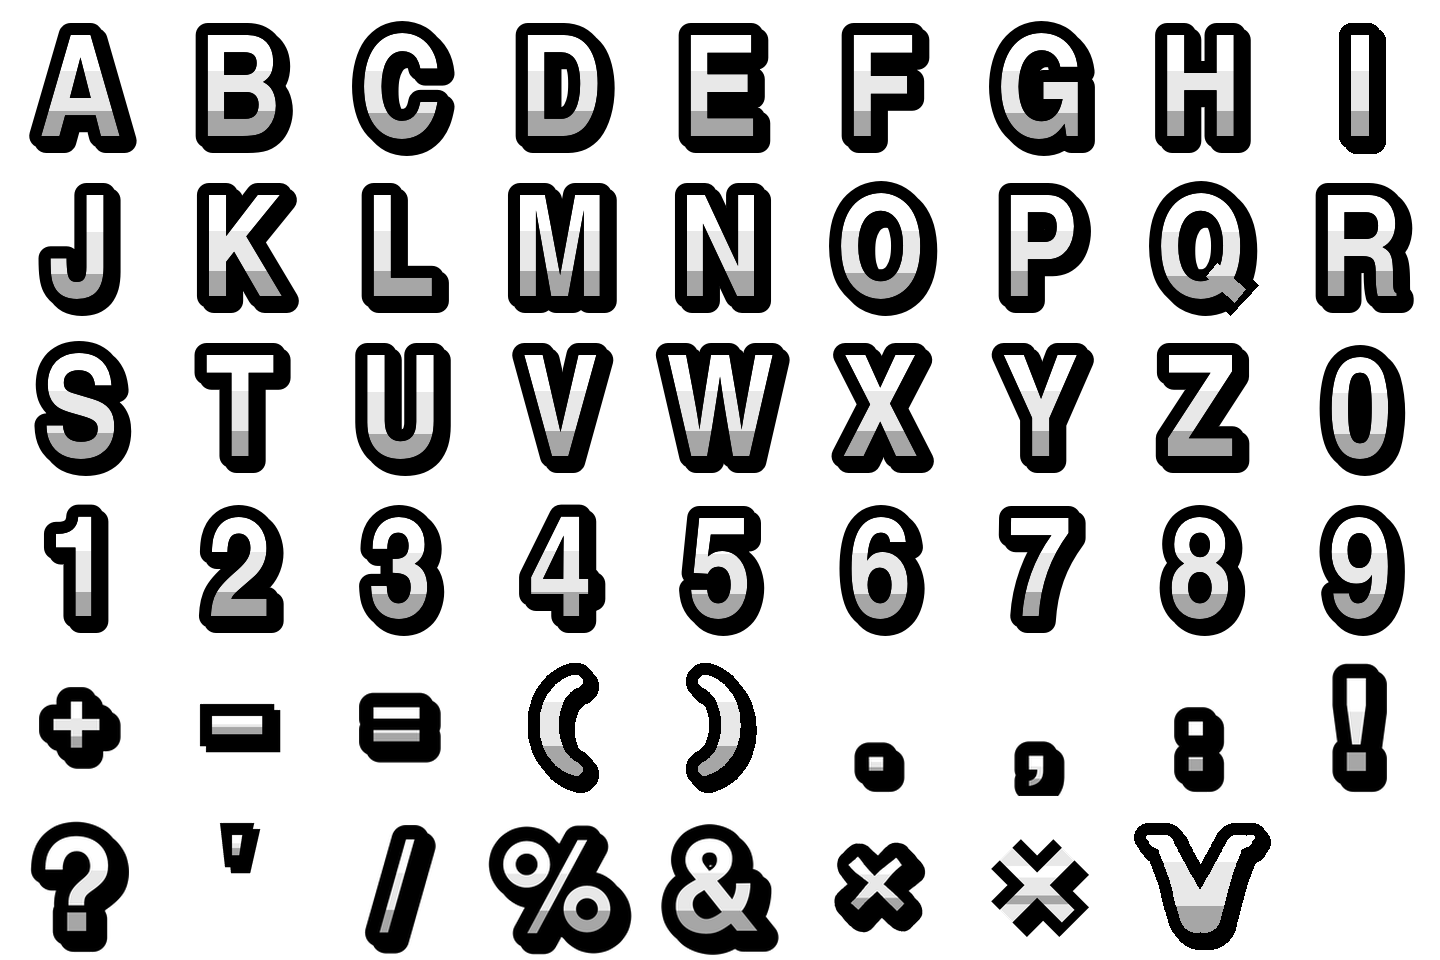
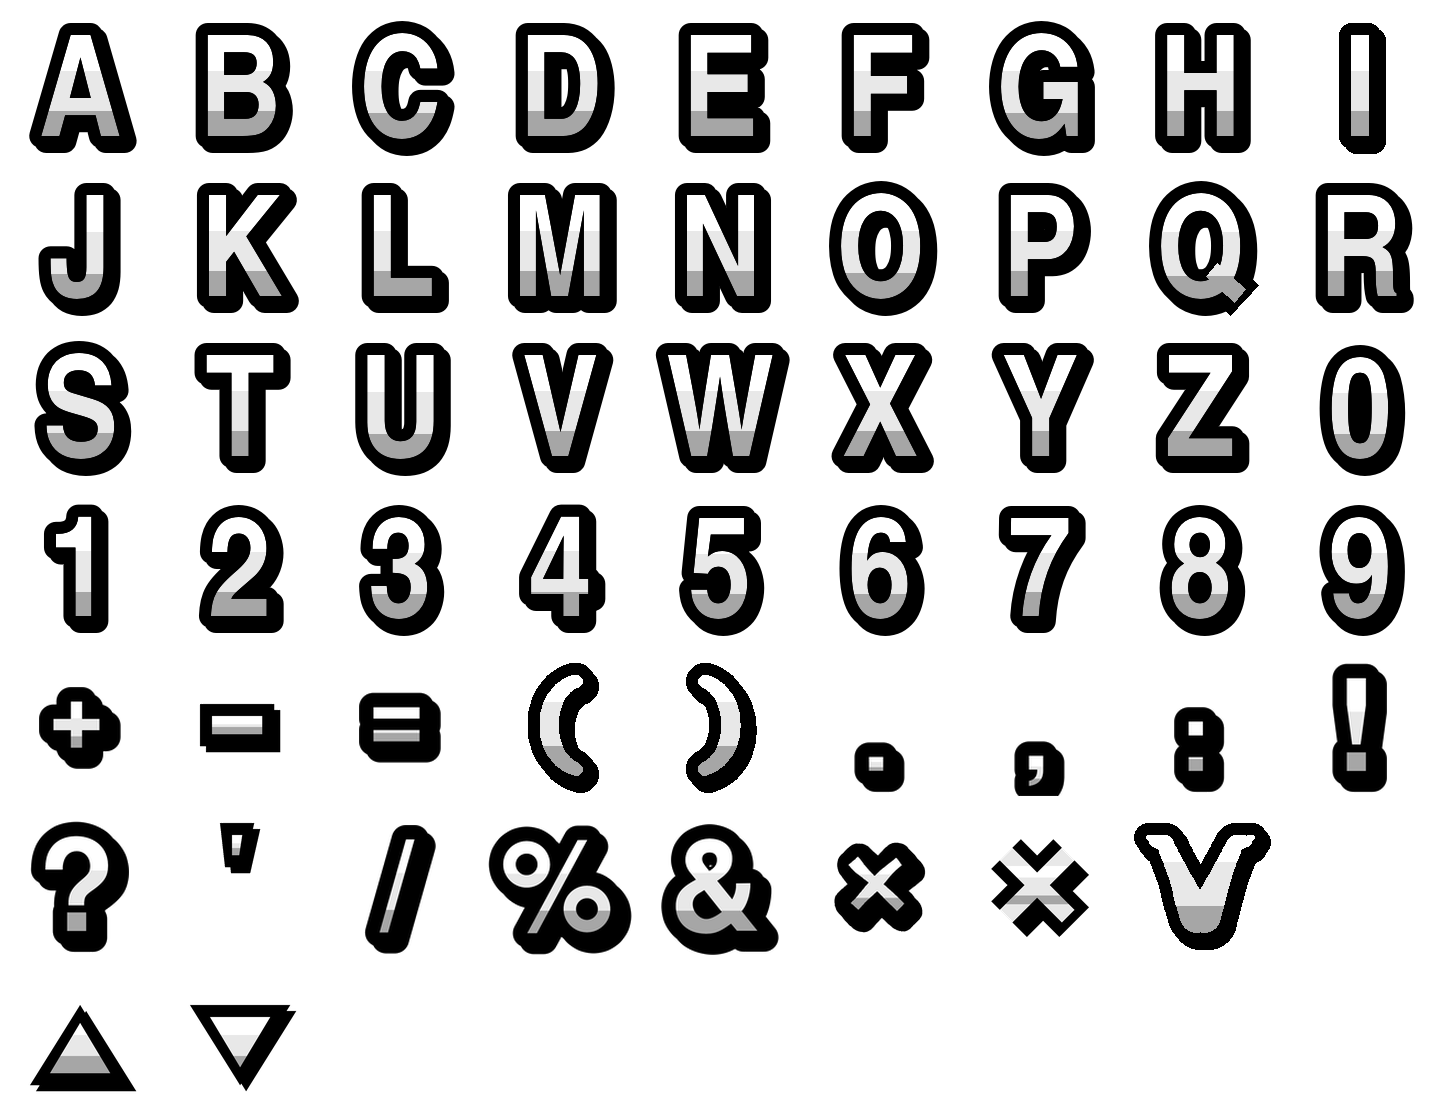
Put every button on a face and a height tier, with arrow glyphs for the seed wheel
models.Button.Bevelled is gone, and with it the last buttons that drew a
code-drawn bevel instead of an authored face. The hand's sort tabs were
already on the Small tier and simply take the gray face. The shop's sell
tab, the pouch's USE/SELL tabs, the deck panel's filter column and the
animation gallery rows move to ButtonTiny (32) and take theirs. A color
with no face file is now the only thing that falls back to the bevel.

An icon on a button is a figure glyph, set as the button's label like a
word, so it takes the sheet's contour, ink and pressed state. The seed
wheel's arrows are ▲ and ▼, generated from docs/art/figure_arrows_art_prompt.MD
and merged into the v3 figure sheets as a seventh row; the code-drawn
chevron that stood in for them is deleted. The seed dialog's test now
holds the arrows against the sheet, so a missing glyph fails rather than
leaving a blank button.

diff --git a/internal/ui/seeddialog.go b/internal/ui/seeddialog.go
@@ -121,12 +121,10 @@ func (d *SeedDialog) Warns() bool { return d.warn }
 func (d *SeedDialog) build() {
 	for i := 0; i < seeds.CodeLen; i++ {
 		i := i
-		d.up[i] = models.NewButton(seedCellWidth, seedArrowHeight, "", func() { d.Turn(i, 1) })
+		d.up[i] = models.NewButton(seedCellWidth, seedArrowHeight, seedArrowUp, func() { d.Turn(i, 1) })
 		d.up[i].BaseColor = confirmCancelColor
-		d.up[i].Bevelled = true
-		d.down[i] = models.NewButton(seedCellWidth, seedArrowHeight, "", func() { d.Turn(i, -1) })
+		d.down[i] = models.NewButton(seedCellWidth, seedArrowHeight, seedArrowDown, func() { d.Turn(i, -1) })
 		d.down[i].BaseColor = confirmCancelColor
-		d.down[i].Bevelled = true
 	}
 	d.cancel = models.NewButton(seedButtonWidth, seedButtonHeight, "CANCEL", func() { d.Close() })
 	d.cancel.BaseColor = confirmCancelColor
@@ -229,8 +227,6 @@ func (d *SeedDialog) Draw(gs *state.GlobalState, screen *ebiten.Image) {
 
 		systems.DrawButton(gs, screen, d.up[i])
 		systems.DrawButton(gs, screen, d.down[i])
-		drawChevron(screen, d.up[i], true)
-		drawChevron(screen, d.down[i], false)
 	}
 
 	systems.DrawButton(gs, screen, d.cancel)
@@ -284,26 +280,12 @@ func lettering(gs *state.GlobalState, screen *ebiten.Image, str string, cx, cy, 
 	text.Draw(screen, str, &text.GoTextFace{Source: gs.Fonts["kubasta"], Size: height * 1.4}, op)
 }
 
-// drawChevron puts a solid triangle on an arrow button, pointing up or down. **A stand-in until
-// there is arrow art**, drawn in the button labels' near-white so it reads as the button's label.
-func drawChevron(screen *ebiten.Image, b *models.Button, up bool) {
-	const half, rise = 14, 10
-	cx, cy := float32(b.ScreenX), float32(b.ScreenY)
-	tip, base := cy-rise, cy+rise
-	if !up {
-		tip, base = base, tip
-	}
-	var p vector.Path
-	p.MoveTo(cx, tip)
-	p.LineTo(cx+half, base)
-	p.LineTo(cx-half, base)
-	p.Close()
-	ink := color.RGBA{R: 235, G: 235, B: 240, A: 255}
-	if b.State == models.ButtonStateDisabled {
-		ink = color.RGBA{R: 110, G: 110, B: 110, A: 255}
-	}
-	vector.FillPath(screen, &p, &vector.FillOptions{}, &vector.DrawPathOptions{AntiAlias: true, ColorScale: colorScale(ink)})
-}
+// The arrows a wheel is turned by, as figure glyphs: a label like any other button's, so they take
+// the figure sheet's contour and ink and sink with the face when pressed.
+const (
+	seedArrowUp   = "▲"
+	seedArrowDown = "▼"
+)
 
 func colorScale(c color.RGBA) ebiten.ColorScale {
 	var s ebiten.ColorScale

diff --git a/internal/screens/shop_pouch.go b/internal/screens/shop_pouch.go
@@ -54,7 +54,7 @@ const (
 	// The two tabs that hang under an armed stone, side by side. **Narrower than the worn row's
 	// single sell tab, because there are two of them** — together they come to about its width.
 	pouchTabWidth  = 170
-	pouchTabHeight = 30
+	pouchTabHeight = ui.ButtonTiny
 	pouchTabGap    = 8
 
 	// How far under the card the tabs hang. The shelf's own figure gap.
@@ -131,13 +131,11 @@ func (t *pouchToggle) init() {
 	// red every control on this screen that cannot be taken back wears.
 	t.use.BaseColor = color.RGBA{R: 46, G: 150, B: 70, A: 255}
 	t.use.TextSize = sellTabTextSize
-	t.use.Bevelled = true
 
 	t.sell = models.NewButton(pouchTabWidth, pouchTabHeight, "SELL",
 		func() { t.doing = pouchSell })
 	t.sell.BaseColor = ui.ButtonRed
 	t.sell.TextSize = sellTabTextSize
-	t.sell.Bevelled = true
 }
 
 // cardRects is where the carried stones stand inside the panel. It reuses the rune dialog's

diff --git a/internal/ui/deckpanel_view.go b/internal/ui/deckpanel_view.go
@@ -53,7 +53,7 @@ const (
 	// deckRowLabelWidth, which was the same idea for the labels this column took over.
 	deckColumnGutter = 26
 
-	deckColumnButtonHeight = 34
+	deckColumnButtonHeight = ButtonTiny
 	deckColumnButtonPitch  = 38
 
 	// deckColumnBlockGap is the air between two blocks of buttons, and deckColumnHeadDrop is how
@@ -200,7 +200,6 @@ func (v *DeckView) build() {
 func (v *DeckView) columnButton(onClick func()) *models.Button {
 	b := models.NewButton(deckColumnWidth, deckColumnButtonHeight, "", onClick)
 	b.BaseColor = SortButtonColor
-	b.Bevelled = true
 	b.TextSize = deckColumnTextSize
 	return b
 }

diff --git a/internal/systems/button_face.go b/internal/systems/button_face.go
@@ -58,12 +58,9 @@ const (
 	faceLatchedScale = 0.7
 )
 
-// buttonFace is the picture a button wears, or nil for a button drawn with the bevel: one that
-// asked for it, a color with no face, or a face that failed to load.
+// buttonFace is the picture a button wears, or nil for a button drawn with the bevel: a color
+// with no face, or a face that failed to load.
 func buttonFace(gs *state.GlobalState, button *models.Button) *ebiten.Image {
-	if button.Bevelled {
-		return nil
-	}
 	if button.State == models.ButtonStateDisabled {
 		return gs.Assets[disabledButtonFace]
 	}

diff --git a/internal/models/button_mod.go b/internal/models/button_mod.go
@@ -59,12 +59,6 @@ type Button struct {
 	// first and as active second.
 	Latched bool
 
-	// Bevelled keeps the drawn bevel rather than the authored face its color would wear. It is for
-	// the controls the face art does not cover yet — the seed wheel's arrows, the hand's sort
-	// buttons, the deck panel's filter column — and a button that sets it is outside the height
-	// tiers as well.
-	Bevelled bool
-
 	// What Image currently holds, so DrawButton can repaint it only when something
 	// visible has changed rather than every frame.
 	//

diff --git a/internal/screens/shop.go b/internal/screens/shop.go
@@ -74,7 +74,7 @@ const (
 	// **Narrower than the card it hangs off**, so it reads as attached to that relic rather than as
 	// a row of its own.
 	sellTabWidth    = 200
-	sellTabHeight   = 30
+	sellTabHeight   = ui.ButtonTiny
 	sellTabTextSize = 26
 )
 
@@ -251,7 +251,6 @@ func (s *ShopScene) Init(gs *state.GlobalState) {
 		// takes. A sale is the only thing on this screen that cannot be taken back.
 		s.sellButton.BaseColor = ui.ButtonRed
 		s.sellButton.TextSize = sellTabTextSize
-		s.sellButton.Bevelled = true
 	}
 
 	s.initRerollButtons()

diff --git a/internal/screens/animations.go b/internal/screens/animations.go
@@ -318,9 +318,8 @@ func (s *AnimationsScene) Init(gs *state.GlobalState) {
 		s.back = models.NewButton(220, ui.ButtonMedium, "BACK", func() { s.leave(gs) })
 		for i := range animGestures {
 			i := i
-			b := models.NewButton(280, animRowHeight-6, animGestures[i].name, func() { s.pick(gs, i) })
+			b := models.NewButton(280, ui.ButtonTiny, animGestures[i].name, func() { s.pick(gs, i) })
 			b.TextSize = animNameSize
-			b.Bevelled = true
 			s.rows = append(s.rows, b)
 		}
 	}

diff --git a/internal/ui/seeddialog_test.go b/internal/ui/seeddialog_test.go
@@ -19,6 +19,8 @@ func TestTheNewRunDialogIsSetInFiguresThatFit(t *testing.T) {
 		{"ACHIEVEMENTS ENABLED", seedCheckHeight},
 		{"START ON THIS CODE, OR TURN THE WHEELS TO CHOOSE ONE.", seedLineHeight},
 		{"THE JOURNEY IN PROGRESS WILL BE LOST.", seedLineHeight},
+		// The arrows are the wheel buttons' labels, so a missing glyph is a blank button.
+		{seedArrowUp + seedArrowDown, seedCharHeight},
 	}
 	for _, l := range lines {
 		if !systems.FigureCovers(l.str) {

diff --git a/internal/ui/handsort.go b/internal/ui/handsort.go
@@ -120,7 +120,6 @@ func NewSortTabs(seat func(gs *state.GlobalState, i int) image.Rectangle, pick f
 		b := models.NewButton(ControlColumnWidth(), ControlButtonHeight, spec.Label,
 			func() { pick(mode) })
 		b.BaseColor = SortButtonColor
-		b.Bevelled = true
 		b.TextSize = ControlButtonText
 		t.buttons = append(t.buttons, b)
 	}

diff --git a/docs/art/figure_arrows_art_prompt.MD b/docs/art/figure_arrows_art_prompt.MD
@@ -1,0 +1,146 @@
+# Figure arrows art prompt — up and down
+
+Two glyphs: **an up arrow and a down arrow**, drawn as solid wedges, to go with a sheet of bold
+inked capitals and digits that already exists (`figure_letters_art_prompt.MD`). They are the labels
+of small buttons — a row of six wheels, each turned by a button above it and a button below it —
+and are set on those buttons exactly as a word like `CANCEL` is set on a bigger one.
+
+**Attach the finished preview of the letters sheet, and match it.** An arrow that looks like it
+came from a different hand, has a thinner outline, or is lighter than the letters is the whole
+failure.
+
+---
+
+## The glyphs
+
+- **`▲` is a solid triangle pointing straight up**; **`▼` is the same triangle pointing straight
+  down** — the one drawing turned over, not a second drawing.
+- **A broad, stable wedge, wider than it is tall**: the base about one and a quarter times the
+  height. Not a tall spike and not a flat sliver.
+- **The corners are slightly softened**, as a heavy brush stroke rounds them, but the point is
+  still a point: it reads as an arrow at a glance, never as a rounded mound or a dome.
+- **Solid all the way through.** No hole, no inner outline, no chevron (`^` shape) with an open
+  middle, no shaft or stem below the head, no second smaller triangle.
+- **Nothing else**: no circle, no badge, no plate behind it, no motion lines.
+
+## The look
+
+The same style as the attached letters, exactly.
+
+- **A black contour 12 pixels thick — the same as the letters', and no thicker or thinner.**
+  Measure it across the side of their `I` at mid-height: 12 pixels. It wraps all three sides and all
+  three corners at that thickness.
+- **True black**, or within a few points of it — not a dark shade of the fill's color.
+- **A hard black drop shadow**, about 6 pixels down and slightly right, merged with the contour.
+  No blur.
+- **A flat fill in the color's `core`, with a hard-edged `light` band along the top of the shape
+  and a hard-edged `dark` band along the bottom.** On `▼` the bands stay where the light puts them —
+  light on top, dark underneath — so it is **not** simply `▲` rotated with its shading upside down.
+- **No gradients, no texture, no streaks, no sparkle, no gloss, no white highlight line, no glow
+  and no bevel.**
+- **Light from above and slightly to the left.**
+
+## Where it sits
+
+Each glyph is drawn in a **160 x 160 cell**, against these measurements of the attached letters:
+
+| On the letters                              | Pixels                        |
+| ------------------------------------------- | ----------------------------- |
+| outline thickness                           | **12**                        |
+| top of a capital's black outline            | **23** down from the cell top |
+| bottom of a capital's black outline         | **147**                       |
+| middle of a capital's fill                  | **85**                        |
+| bottom of the drop shadow                   | 152                           |
+
+**Each arrow's black, outline included and drop shadow left out, fits a box 100 wide by 80 tall,
+centered on 85 up and down and centered left to right** — so an arrow is as heavy as a capital but
+sits in the middle of the line, the way `+` and `=` do. Nothing it draws comes within 4 pixels of
+any edge of its cell.
+
+## The sheet
+
+**One PNG per color, each exactly 320 x 160** — two 160 x 160 cells side by side, `▲` on the left
+and `▼` on the right — transparent background, PNG with an alpha channel. Everything outside the
+glyphs is fully transparent: no ground, no grid lines, no frame, no labels.
+
+Every color is **the same two drawings, recolored**: only the three fill values change.
+
+**Match these values exactly.** `core` is the body of the glyph, `light` is the band along the top,
+and `dark` is the band along the bottom.
+
+| Sheet name  | Color                 | dark      | core      | light     |
+| ----------- | --------------------- | --------- | --------- | --------- |
+| `fire`      | orange                | `#9E2F13` | `#F06A24` | `#FFB24A` |
+| `ice`       | blue                  | `#245A86` | `#4E9ED6` | `#A8DDF4` |
+| `lightning` | yellow                | `#A98200` | `#F2D13D` | `#FFF38A` |
+| `earth`     | green                 | `#285E35` | `#4E9B57` | `#8BCB78` |
+| `arcane`    | purple                | `#4C2A78` | `#8A5BC7` | `#C8A4F2` |
+| `attack`    | red                   | `#7A1E1E` | `#BA3434` | `#EE7A6A` |
+| `relic`     | pink                  | `#9A2F68` | `#EB69AA` | `#FFB8DA` |
+| `vitae`     | crimson               | `#5E0C16` | `#A81A2A` | `#E0525E` |
+| `neutral`   | white to gray, no hue | `#A6A6A6` | `#E8E8E8` | `#FFFFFF` |
+
+**`neutral` is the one the buttons use**, and the game multiplies its fill by other colors at run
+time, so it has to be **pure gray, with no hue at all**. The black contour and drop shadow come
+through the multiply as black.
+
+## The JSON
+
+**One file, `figure-arrows.json`:**
+
+```json
+{
+  "cellWidth": 160,
+  "cellHeight": 160,
+  "columns": 2,
+  "rows": 1,
+  "baseline": 136,
+  "digitHeight": 112,
+  "glyphs": {
+    "▲": { "x": 0,   "y": 0, "w": 160, "h": 160, "left": 30, "right": 130, "advance": 104 },
+    "▼": { "x": 160, "y": 0, "w": 160, "h": 160, "left": 30, "right": 130, "advance": 104 }
+  },
+  "sheets": {
+    "neutral": {
+      "image": "figure-arrows-neutral.png",
+      "ramp": { "dark": "#A6A6A6", "core": "#E8E8E8", "light": "#FFFFFF" }
+    },
+    "...": {}
+  }
+}
+```
+
+- **The keys are the characters themselves**: `"▲"` is U+25B2 (black up-pointing triangle) and
+  `"▼"` is U+25BC (black down-pointing triangle). The file is UTF-8.
+- `x`, `y`, `w`, `h` are the glyph's cell in the sheet.
+- **`left` and `right` are the first and last columns the contour reaches**, not counting the drop
+  shadow, and **`advance` is how far to move right after it**, measured so its contour just touches
+  a neighbouring capital's. Measure all three off the drawn pixels; the figures above are
+  placeholders.
+
+## Naming
+
+`figure-arrows-<name>.png` for each of the nine colors, plus `figure-arrows.json`, plus
+**`figure-arrows-preview.png`**: all nine sheets stacked over a **light slate-blue ground,
+`#7EACE4`**, and under them, in `neutral` and using the attached letters, the lines `▲ A ▼` and
+`H▲H  H▼H`, each glyph at the height it has in its own cell so the lines read as one row. Then the
+preview's `neutral` sheet again at a fifth of its size, which is about the size the game draws it.
+
+Eleven files. Give me a single zip file of everything so I can download it all at once — never a
+link per file.
+
+---
+
+## Before you hand anything back
+
+Check every sheet against these. A failure on any one means redraw rather than explain.
+
+0. **Measure each arrow against its box**: 100 wide by 80 tall, outline included and drop shadow
+   left out, centered on 85. An arrow taller than the capitals beside it in `H▲H` means redraw.
+1. **Measure the outline.** Count the black pixels across the slanted side at its middle: about 12,
+   the same as across the side of the `I` in the attached letters, and true black.
+2. **Is `▼` the same shape as `▲`, turned over, with its light band still on top?**
+3. **At a fifth of the size, are both still unmistakably arrows** — a point, not a mound — and
+   solid, with no hole?
+4. **Are the nine sheets the same drawings**, only the fill changing, and is `neutral` pure gray?
+5. **Is nothing within 4 pixels of a cell's edge?**

diff --git a/docs/art/README.md b/docs/art/README.md
@@ -102,6 +102,7 @@ which is `reduce`'s default.
 | `card_art_prompt.MD` | **the third odd one out**: a full-bleed picture for a *playing* card, one per card per element out of `data/card_art.json`, which is the largest backlog in the repo. It is 5:7 and full-bleed like the relic prompt, and unlike every other bleeding card it has **no scrim**: `cards.Hand` sets `ArtUnder` rather than `ArtBleed`, so the card keeps its near-black ink set and the picture has to stay pale where the type lands. The prompt carries the measured map of where that is. Filed into `assets/card/`, globbed by `assets.embedFamily` and keyed by filename stem, not through `tools/relicart`. **There is no default face** — an unauthored record draws the card exactly as it looked before the catalog existed |
 | `damage_art_prompt.MD` | **the second odd one out**: the damage badge in a card's bottom-left corner — a badge carrying the multiplier an attack deals. Square and transparent like the glyph prompt, and the one prompt whose output has *type printed on it by the game*, which is why it asks for a flat unbroken centre and no hot spot. **It asks for three shapes on one diameter** — circle, starburst, diamond — in six colors each, because which outline the badge takes is still open. Filed like the form marks: into `assets/damage/` under its own names, globbed by `assets.embedFamily` and keyed by filename stem, not through `tools/relicart` |
 | `glyph_art_prompt.MD` | **the odd one out**: it produces the marks drawn *on top of* a card rather than a picture *on* one — the form mark in the corner and the cost ticks under it. Square and 5:2 rather than 5:7, transparent rather than near-black, one hue rather than a scene, and delivered at 256 because the game reduces to the two sizes it draws at |
+| `figure_arrows_art_prompt.MD` | `▲` and `▼`, the seed wheel's arrow labels, in the figure sheet's style and nine colors: a 320x160 two-cell sheet per color plus `figure-arrows.json`. **An icon on a button is a figure glyph**, so this is how a button gets a picture rather than a face with one baked in. Merged into the `v3` figure sheets as their seventh row, beside the letters, as the vitae mark was. **Only `neutral` is drawn today**; the other eight keep every glyph present on every sheet |
 | `figure_art_prompt.MD` | the numerals and math symbols the combat screen assembles into the figures that fly over the table — terms, sums, hits, drains. **The only prompt that asks for a sprite sheet plus a JSON of glyph metrics** rather than one picture per file, because the game sets the glyphs side by side itself. Heavy black inked contour and a two-band flat fill, in the five element colors, attack red, relic pink and a pure-gray `neutral` the game multiplies by any other ink |
 | `background_art_prompt.MD` | the backdrop a duel is fought in front of — a 1920x1080 **JPEG**, one per record per element in `data/motifs/<motif>/backdrops.json`. It is the one prompt that is a *place* rather than an object, and it carries the map of what the combat screen lays over the picture, the rule that the room is big enough to hold a duel, the rule that nobody is in it, and the three tier sections — the small door, the large door, the two portals. `go run ./tools/creatureprompt -backdrop <key>` assembles the record's half. Filed by hand into `assets/motifs/<motif>/backdrop/` as `<Art>-<element>.jpg`; there is no `tools/relicart` kind for it yet |
 | `edge_art_prompt.MD` | the strip an upgraded card draws down each side of its face, one per record in `data/edges.json` with the record's `Draw` pasted after it. A 2:3 canvas holding one full-height vertical band a third of its width on flat black, the dark lip on its left as the card's outside edge and the detail kept in the left half; the band is cut out and filed by hand into `assets/edge/` at 248x1088, and the game fades it out across its width and mirrors it for the right edge |

diff --git a/CLAUDE.md b/CLAUDE.md
@@ -984,10 +984,11 @@ two before it reaches for a third color, because a third color is a third face t
   drop and the label goes down with it; latched sinks it and dims it. No state is a second file.
 - **Caps are drawn at whole pixels.** A cap scaled to a half pixel leaves a column both pieces
   cover by half, which shows as a seam.
-- **`models.Button.Bevelled` keeps the drawn bevel** for the controls with no art yet — the seed
-  wheel's arrows, the hand's sort buttons, the deck panel's filter column, the shop's sell tabs,
-  the gallery rows — and a color with no face falls back to it too. Those buttons are outside the
-  height tiers until their art lands.
+- **Every button wears a face and sits on a height tier**; there is no opting out. A color with
+  no face falls back to the drawn bevel, which is the one place the bevel still draws a button.
+  **An icon on a button is a figure glyph**, set as the button's label like a word — the seed
+  wheel's arrows are `▲` and `▼` (`docs/art/figure_arrows_art_prompt.MD`), the last row of the
+  figure sheet.
 
 - **No UI toolkit dependency.** Widgets are hand-rolled following the
   `models.Button` + `systems.UpdateButton`/`DrawButton` split. Add new widgets the same
@@ -1667,7 +1668,7 @@ the ground its states are scaled against, not the screen. Text written directly 
 takes `screens.groundInk`.
 
 A code-drawn widget names the color it wants at **full strength**, and its other states are
-scaled down from that with `systems.ColorAtStrength`. A `Bevelled` button is the reference case:
+scaled down from that with `systems.ColorAtStrength`. A faceless button is the reference case:
 it rests at 65%, hovers at 82% and reaches the named color at 100%, so pressing it lights it up to
 exactly the color in the source. A button wearing a face names the same color to *pick* the face,
 and the face is authored at that color.
